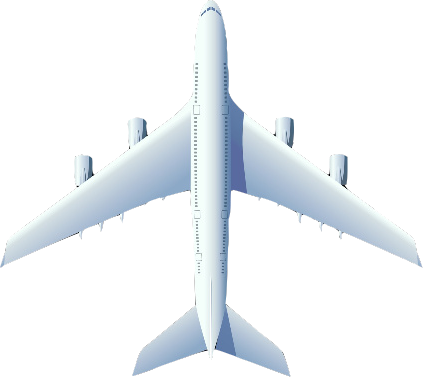
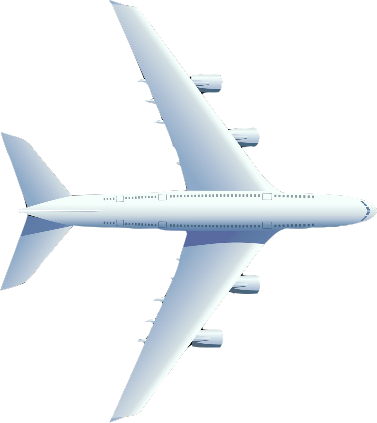
Rotated the Image of 90° for align with the Move Animation

Changed region(s): [[0.0, 0.0, 1.0, 1.0]]

diff --git a/src/main/java/alt/sim/view/PlaneMouseMove.java b/src/main/java/alt/sim/view/PlaneMouseMove.java
@@ -7,15 +7,23 @@ import alt.sim.controller.engine.GameEngineImpl;
 import alt.sim.model.ImageClassification;
 import alt.sim.model.PlaneMovement;
 import alt.sim.model.plane.Plane;
+import javafx.animation.PathTransition;
+import javafx.animation.PathTransition.OrientationType;
 import javafx.application.Application;
 import javafx.event.EventHandler;
+import javafx.geometry.NodeOrientation;
 import javafx.geometry.Point2D;
 import javafx.scene.Scene;
 import javafx.scene.canvas.Canvas;
 import javafx.scene.canvas.GraphicsContext;
 import javafx.scene.input.MouseEvent;
 import javafx.scene.layout.Pane;
+import javafx.scene.shape.LineTo;
+import javafx.scene.shape.MoveTo;
+import javafx.scene.shape.Path;
+import javafx.scene.shape.Rectangle;
 import javafx.stage.Stage;
+import javafx.util.Duration;
 
 /**
  *
@@ -36,6 +44,9 @@ public class PlaneMouseMove extends Application {
     public void start(final Stage stage) throws Exception {
         Pane paneRoot = new Pane();
         Canvas canvas = new Canvas(MainPlaneView.getScreenWidth(), MainPlaneView.getScreenHeight());
+        Path path = new Path();
+        PathTransition pathTransition = new PathTransition();
+
         GameEngineImpl engine = new GameEngineImpl(this);
         class ThreadEngine implements Runnable {
             @Override
@@ -49,7 +60,7 @@ public class PlaneMouseMove extends Application {
 
         // Calculating the Proportion --> (Image:Screen)
         p1.getSpritePlane().getImageSpriteResized().resizeImageSprite(true);
-        p1.getImagePlane().setRotate(p1.getImagePlane().getRotate());
+        p1.getSpritePlane().getImageSpriteResized().getImageSprite().setNodeOrientation(NodeOrientation.LEFT_TO_RIGHT);;
 
         // View Plane demonstrating:
         paneRoot.resize(MainPlaneView.getScreenWidth(), MainPlaneView.getScreenHeight());
@@ -58,7 +69,7 @@ public class PlaneMouseMove extends Application {
         paneRoot.getChildren().add(p1.getSpritePlane().getImageSpriteResized().getImageSprite());
 
         // Section Canvas
-        paneRoot.getChildren().add(canvas);
+        paneRoot.getChildren().addAll(canvas);
         GraphicsContext gc = canvas.getGraphicsContext2D();
 
          EventHandler<MouseEvent> handlerMousePressed = new EventHandler<MouseEvent>() {
@@ -84,8 +95,21 @@ public class PlaneMouseMove extends Application {
              public void handle(final MouseEvent event) {
                  planeMove.setPlaneCoordinates(planeCoordinates);
                  planeMove.printPlaneCoordinates();
-                 engine.setStart(true);
-                 planeCoordinates.clear();
+                 path.getElements().add(new MoveTo(0f, 50f));
+
+                 for (int i = 0; i < planeCoordinates.size(); i++) {
+                     path.getElements().add(new LineTo(planeCoordinates.get(i).getX(), planeCoordinates.get(i).getY()));
+                 }
+
+                 System.out.println("Rotate Plane get from PathTransition = " + p1.getImagePlane().getRotate());
+                 pathTransition.setDuration(Duration.millis(10000));
+                 pathTransition.setNode(p1.getImagePlane());
+                 pathTransition.setPath(path);
+                 pathTransition.setOrientation(OrientationType.ORTHOGONAL_TO_TANGENT);
+                 pathTransition.play();
+
+                 //engine.setStart(true);
+                 //planeCoordinates.clear();
                  //p1.getSpritePlane().setX(event.getX());
                  //p1.getSpritePlane().setY(event.getY());
 

diff --git a/src/main/java/alt/sim/model/plane/Plane.java b/src/main/java/alt/sim/model/plane/Plane.java
@@ -61,16 +61,10 @@ public class Plane {
     public Sprite getSpritePlane() {
         return this.spritePlane;
     }
-
-    /*
-     * public double getX() { return this.spritePlane.getX(); }
-     * 
-     * public double getY() { return this.spritePlane.getY(); }
-     * 
-     * public void setX(final double x) { this.spritePlane.setX(x); }
-     * 
-     * public void setY(final double y) { this.spritePlane.setY(y); }
-     */
+    
+    public void setPlaneRotate(final double rotateValue) {
+        this.spritePlane.getImageSpriteResized().getImageSprite().setRotate(rotateValue);
+    }
 
     @Override
     public String toString() {

diff --git a/src/main/java/alt/sim/model/PlaneMovement.java b/src/main/java/alt/sim/model/PlaneMovement.java
@@ -9,6 +9,7 @@ public class PlaneMovement {
     private static final int COORDINATES_LIMIT = 200;
 
     private Point2D[] planeCoordinates;
+    
 
     public PlaneMovement() {
         this.planeCoordinates = new Point2D[COORDINATES_LIMIT];
